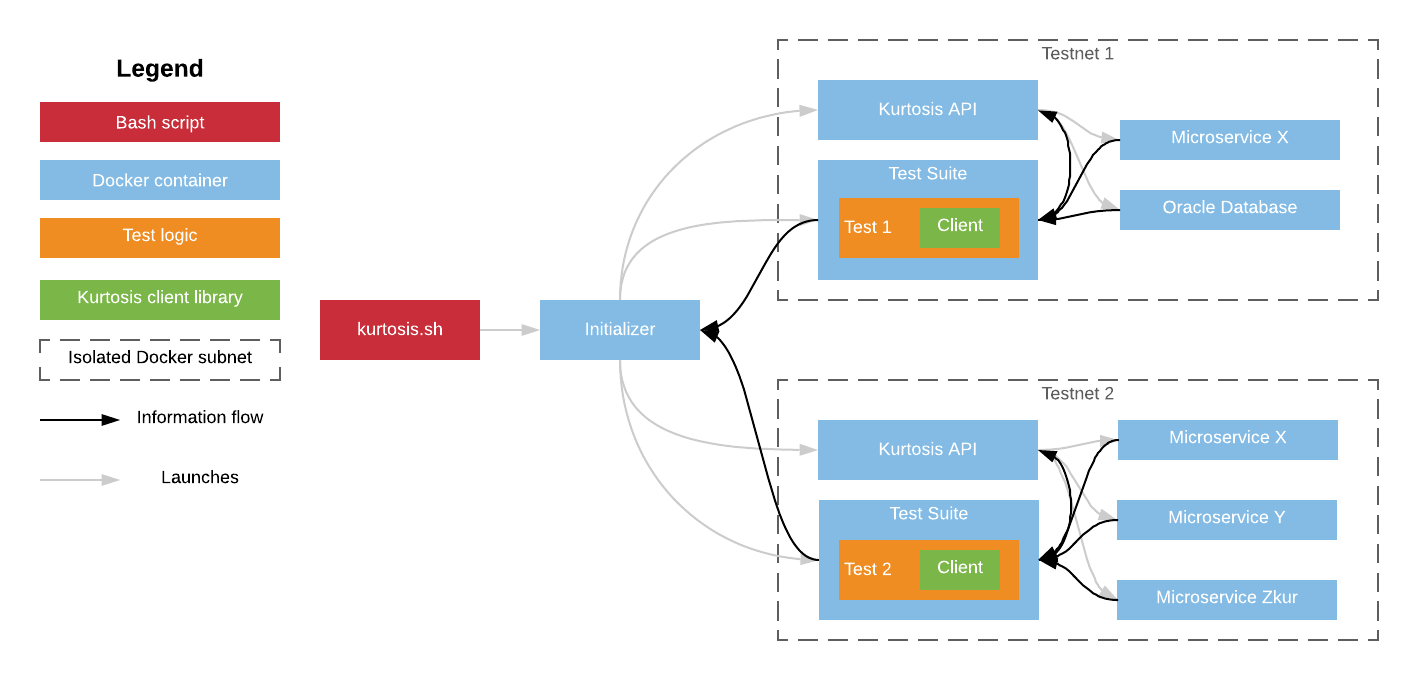
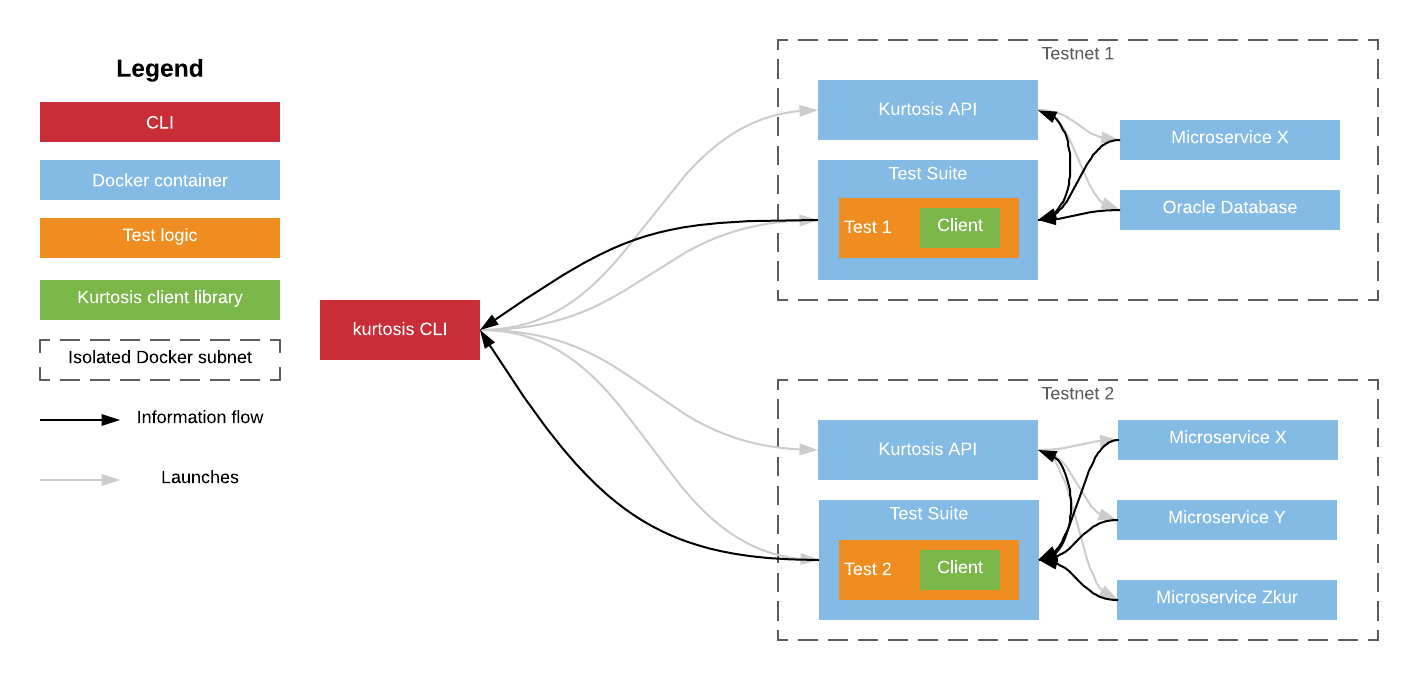
Update docs for the newest way of running Kurtosis via CLI

diff --git a/debugging-failed-tests.md b/debugging-failed-tests.md
@@ -12,37 +12,15 @@ Commmon failure scenarios
 **High-level:** If you're using MacOS, make sure that your Docker engine's `Resources > File Sharing` preferences are set to allow `/var/folders`
 **Details:** The Kurtosis controller is a Docker image that needs to access the Docker engine it's running in to create other Docker images. This is done via creating "sibling" containers, as detailed in the "Solution" section at the bottom of [this blog post](https://jpetazzo.github.io/2015/09/03/do-not-use-docker-in-docker-for-ci/). However, this requires your Docker engine's communication socket to be bind-mounted inside the controller container. Kurtosis will do this for you, but you'll need to give Docker permission for the Docker socket (which lives at `/var/run/docker.sock`) to be bind-mounted inside the controller container.
 
-### Tests failed but no controller logs were printed
-If your tests are failing but you're not getting any controller logs whatsoever, you either have a failure in launching the test's controller container or in the machinery for reporting a controller container's logs back to the Kurtosis initializer.
+### Tests failed but no testsuite logs were printed
+If your tests are failing but you're not getting any testsuite logs whatsoever, you either have a failure in launching the testsuite container or in the machinery for reporting a testsuite container's logs back to Kurtosis
 
 One common failure scenario we've seen with MacOS users is the `/var/folders` not being permitted in the Docker engine preferences. If you're a Mac user, double-check that your Docker engine's `Resources > File Sharing` section permits access to `/var/folders`.
 
-If this still doesn't resolve the issue, you'll want to investigate the logs of your controller container, which you can do [using these instructions](https://docs.docker.com/config/containers/logging/); this should give you more information about why your container is failing.
+If this still doesn't resolve the issue, you'll want to investigate the logs of your testsuite continaer, which you can do [using these instructions](https://docs.docker.com/config/containers/logging/); this should give you more information about why your container is failing.
 
-### Overlapping IP address ranges
-When Docker errors saying that subnet IP address ranges conflict, this usually means that Kurtosis is trying to create the per-test subnets but is colliding with an existing network that was left over from a previous invocation of the test suite. Kurtosis will clean up the Docker networks it creates under normal circumstances, but abnormal exits (e.g. SIGKILL aka `kill -9`) will leave the Docker networks hanging around. To fix this error, remove the offending networks like so:
-
-```
-docker network ls
-docker network rm some_id_1 some_id_2 ...
-```
-
-### Timeout while waiting for a service to start
-Before running a test against a network of services, Kurtosis performs availability checks on all the nodes in the network to ensure they're up. This is to avoid spurious test failures due to the network not being ready. If your test fails with an error like so:
-
-```
-Caused by: Hit timeout (1m30s) while waiting for service to start
- --- at /go/pkg/mod/github.com/kurtosis-tech/kurtosis@v0.0.0-20200722101726-28a51087d1db/commons/services/service_availability_checker.go:56 (ServiceAvailabilityChecker.WaitForStartup) ---
-Caused by: context deadline exceeded
-```
-
-then the timeout Kurtosis is timing out while waiting for a node in a network to start. You should first examine why this might be the case to understand if there's a bug with your service or how you're checking for service availability, and if your service's slowness is expected then you can up the timeout that you define in your availability checker for your service.
-
-### Test execution timeout
-Each test has a timeout by which its execution must complete. A test's execution is specifically for the logic inside each test's `Run` method, and does NOT include the network setup required to even launch the test. A test's execution timeout being hit means that the test logic is not completing within the allowed deadline; the fix is to discover why the test is hitting the timeout (it may be a useful indicator of a problem) and, if no problems are found, increase the execution timeout in the test's `GetExecutionTimeout` method.
-
-### Hard test timeout
-In addition to the test execution timeout and in order to prevent any test from hanging forever, the entire test - including network setup, test execution, and network teardown - are subject to an additional "hard test timeout". This timeout is equal to the test execution timeout (configured in `GetExecutionTimeout`) plus the setup buffer (configured in `GetSetupBuffer`). If your test is hitting the hard test timeout but NOT the execution timeout, it likely means that some element of network setup is taking longer than expected. The initializers and availability checkers for your services should be examined for problems as a first step, and - if no issues are found - then the last fix should be increasing the setup buffer.
+### Test setup & run timeouts
+Each test has timeouts in which its `Test.setup` and `Test.run` functions must complete. One of these timeouts being hit means that the logic is not completing within the allowed deadline; the fix is to discover why the test is hitting the timeout (it may be a useful indicator of a problem) and, if no problems are found, increase the execution timeout in the `Test.configure` method.
 
 ---
 

diff --git a/building-and-running.md b/building-and-running.md
@@ -6,15 +6,17 @@ Every testsuite is simply a package of test code in [an arbitrary language](http
 Testsuites bootstrapped using [the quickstart instructions](https://github.com/kurtosis-tech/kurtosis-onboarding-experience/tree/master#kurtosis-ethereum-quickstart) will come with the Dockerfile and `main` function necessary to package your test code into a Docker image. To build the testsuite Docker image, you'd need to call `docker build` on the Dockerfile to generate a new Docker image every time you make changes to your testsuite. This becomes tedious quickly, so we've automated this with a script that we'll see soon.
 
 ### Feeding a testsuite container to Kurtosis
-Kurtosis is invoked via the `kurtosis.sh` Bash script that's [released with each version of Kurtosis Core after 1.4](https://kurtosis-public-access.s3.us-east-1.amazonaws.com/index.html?prefix=dist/) and created for you in the `.kurtosis` directory of a bootstrapped testsuite. To run your testsuite, you'd need to call `kurtosis.sh` and pass in the name of your testsuite image. As with building, this becomes tedious so we've automated it in a script.
+Kurtosis is invoked via [the Kurtosis CLI][installation]. To run your testsuite, you'd need to call `kurtosis test` and pass in the name of your testsuite image. As with building, this becomes tedious so we've automated it in a script.
 
 ### build-and-run.sh
-Building the testsuite image and running it is such a common task that calling `docker build` and `kurtosis.sh` manually each time becomes frictionful. To ease the pain, we've automated the process with a script called `build-and-run-core.sh`, which is also [released with every Kurtosis Core version](https://kurtosis-public-access.s3.us-east-1.amazonaws.com/index.html?prefix=dist/) and will also be created in the `.kurtosis` directory of newly-bootstrapped repos alongside `kurtosis.sh`. This script takes in an action (e.g. `build`, to just build, or `help`, to display helptext) as well as several other arguments, and will handle the image-building and image-running for you.
+Building the testsuite image and running it is such a common task that calling `docker build` and `kurtosis test` manually each time becomes frictionful. To ease the pain, we've automated the process with a script called `build-and-run-core.sh`, which is also [released with every Kurtosis Core version](https://kurtosis-public-access.s3.us-east-1.amazonaws.com/index.html?prefix=dist/) and will be created in the `.kurtosis` directory of the testsuite repo. This script takes in an action (e.g. `build`, to just build, or `help`, to display helptext) as well as several other arguments, and will handle the image-building and image-running for you.
 
 `build-and-run-core.sh` is versioned with Kurtosis Core and should be upgraded whenever Kurtosis Core is upgraded. This means that any changes you make to it would be overwritten. To fix this issue, every bootstrapped testsuite repo comes with a `build-and-run.sh` wrapper script that calls down to `build-and-run-core.sh`, and is yours to modify as you please.
 
-Because `build-and-run.sh` calls `build-and-run-core.sh` which calls `kurtosis.sh`, and because `kurtosis.sh` has arguments of its own, any additional arguments after the arg telling `build-and-run.sh` what to do will be passed as-is to `kurtosis.sh`. As an example, you can call `build-and-run.sh all --help` to signify that a) `build-and-run.sh` should do both build and run steps and b) you want to see the extra flags that the inner call to `kurtosis.sh` receives. As a second example, `build-and-run.sh run --parallelism 2` would execute only the run step (no build) and call `kurtosis.sh` with parallelism set to 2.
+Because `build-and-run.sh` calls `build-and-run-core.sh` which calls the Kurtosis CLI, and because the Kurtosis CLI has arguments of its own, any additional arguments after the arg telling `build-and-run.sh` what to do will be passed as-is to the CLI. As an example, you can call `build-and-run.sh all --help` to signify that a) `build-and-run.sh` should do both build and run steps and b) you want to see the extra flags that the Kurtosis CLI receives. As a second example, `build-and-run.sh run --parallelism 2` would execute only the run step (no build) and call `kurtosis test` with parallelism set to 2.
 
 ---
 
 [Back to index](https://docs.kurtosistech.com)
+
+[installation]: ./installation.md

diff --git a/architecture.md b/architecture.md
@@ -33,8 +33,7 @@ This architecture has the following components:
 
 * **Testnet:** The network of services being tested (one per test)
 * **Service:** A Dockerized service forming part of a testnet
-* **Initializer:** The Docker container that coordinates execution of the testsuite
-* **kurtosis.sh:** The Bash script that launches the initializer container, and the entrypoint for running Kurtosis
+* **Kurtosis CLI:** The CLI that coordinates the execution of a testsuite, and the entrypoint for running Kurtosis
 * **Kurtosis API:** The Docker sidecar container (one per test) that handles initializing, manipulating, and tearing down testnets
 * **Testsuite:** The Docker container (one per test) that holds the user's custom logic for starting the custom services forming the networks being tested, as well as the logic for the tests to run
 * **Kurtosis Client:** A library in the user's language of choice that abstracts away communication with the Kurtosis API for testnet initialization, manipulation, and teardown
@@ -42,17 +41,17 @@ This architecture has the following components:
 The test phases proceed in the following order for each test:
 
 1. **Setup:**
-    1. The initializer creates a new Docker subnet to contain the Kurtosis API container, testsuite container, and testnet services
+    1. The CLI creates a new Docker subnet to contain the Kurtosis API container, testsuite container, and testnet services
     1. The API container and testsuite containers are launched
     1. As part of launch, the Kurtosis client library instructs the API container what the testnet looks like
     1. The API container instantiates the testnet as instructed
 1. **Perturbation:** The test, running inside the testsuite container, makes calls against the network
 1. **Validation:** The test asserts the expected responses
 1. **Teardown:**
-    1. The test completes and reports its status back to the initializer
+    1. The test completes and reports its status back to the CLI
     1. The API container stops the testnet containers
     1. The API container and testsuite container exit
-    1. The initializer tears down the Docker subnet created for the test
+    1. The CLI tears down the Docker subnet created for the test
 
 Key features:
 

diff --git a/lambdas.md b/lambdas.md
@@ -4,17 +4,22 @@ Kurtosis Lambdas
 You might want to provide your testnet definition logic to a wider audience (e.g. your users), or you might want to consume someone else's testnet definition logic. Kurtosis' solution to this are "Lambdas", which are packages of code that execute against the Kurtosis testnet. You can think of a Lambda as a language-agnostic library that executes in the Kurtosis environment. 
 
 ### Uses
-The current Lambdas we know about:
-
-* [Ethereum Lambda](https://github.com/kurtosis-tech/ethereum-kurtosis-lambda): Starts an Ethereum network in Kurtosis
-* [NEAR Lambda](https://github.com/kurtosis-tech/near-kurtosis-lambda): Starts a network of NEAR blockchain nodes in Kurtosis
-* [Datastore Army Lambda](https://github.com/kurtosis-tech/datastore-army-lambda): Starts multiple [datastore services](https://github.com/kurtosis-tech/example-microservices); used for demonstration purposes
-
 Some hypothetical Lambdas that could be built:
 
 * Occasionally kill services in the network (like Netflix' [Chaos Monkey](https://netflix.github.io/chaosmonkey/))
 * Repartition the network periodically
 * Mutate the state of the network
+
+### Running Lambdas
+The easiest way to run a Lambda is in the [sandbox][sandbox].
+
+### Known Lambdas
+The current Lambdas we know about:
+
+* [Ethereum Lambda](https://github.com/kurtosis-tech/ethereum-kurtosis-lambda): Starts an Ethereum network in Kurtosis
+* [NEAR Lambda](https://github.com/kurtosis-tech/near-kurtosis-lambda): Starts a NEAR blockchain and accompanying wallet, explorer, etc. in Kurtosis
+* [Datastore Army Lambda](https://github.com/kurtosis-tech/datastore-army-lambda): Starts multiple [datastore services](https://github.com/kurtosis-tech/example-microservices); used for demonstration purposes
+
 
 ### Technical Details
 Under the covers, Lambdas are:
@@ -32,3 +37,5 @@ The API that a Lambda must implement is defined in [the Lambda API Lib](https://
 ---
 
 [Back to index](https://docs.kurtosistech.com)
+
+[sandbox]: ./sandbox.md

diff --git a/running-in-ci.md b/running-in-ci.md
@@ -2,6 +2,10 @@ Running in CI
 =============
 Running Kurtosis on your local machine is nice, but the real power of the platform comes when it's executed as part of CI. This guide will walk you through setting up Kurtosis in your CI environment.
 
+Installing The CLI
+-------------------
+You'll need the Kurtosis CLI inside your CI environment. This can be accomplished by following [the installation instructions][installation] for whichever package manager your CI container uses.
+
 Machine-to-Machine Auth
 -----------------------
 While it's fine to prompt a user for their username and password when Kurtosis is run on the local machine, this method is insecure when executing Kurtosis on CI. Fortunately, our auth system provides [a system for handling this called "machine-to-machine auth"](https://auth0.com/docs/flows/client-credentials-flow). In the machine-to-machine flow, a client ID and a client secret are stored within the CI environment's secrets and passed in to every CI job. Kurtosis uses these credentials to retrieve a token from the auth provider, which allows Kurtosis execution to proceed.
@@ -35,3 +39,5 @@ This allows you to require untrusted code to pass a review before it runs (there
 ---
 
 [Back to index](https://docs.kurtosistech.com)
+
+[installation]: ./installation.md

diff --git a/sandbox.md b/sandbox.md
@@ -2,31 +2,7 @@ Kurtosis Sandbox
 ================
 Often, Kurtosis is used for its testing ability: run a testsuite, where each test spins up a test network that the test logic runs against. However, it can sometimes be valuable to spin up a test network for freeform manipulation without any test logic. This is the Kurtosis sandbox: a testnet that can be freeform manipulated with a Javascript REPL with [the same tools for interacting with the Kurtosis engine][lib-documentation].
 
-To start a Kurtosis sandbox, first install the Kurtosis CLI:
-
-Homebrew:
-```
-brew install kurtosis-tech/tap/kurtosis
-```
-
-apt:
-```
-echo "deb [trusted=yes] https://1rRcWo-cTcNiKak7X5tkD7slaIg4GDXrdU@apt.fury.io/kurtosis-tech/ /" | sudo tee /etc/apt/sources.list.d/kurtosis.list
-sudo apt update
-sudo apt install kurtosis
-```
-
-yum:
-```
-echo '[kurtosis]
-name=Kurtosis
-baseurl=https://1rRcWo-cTcNiKak7X5tkD7slaIg4GDXrdU@yum.fury.io/kurtosis-tech/
-enabled=1
-gpgcheck=0' | sudo tee /etc/yum.repos.d/kurtosis.repo
-sudo yum install kurtosis
-```
-
-Next, run:
+To start a Kurtosis sandbox, [install the Kurtosis CLI](./installation.md) and run:
 
 ```
 kurtosis sandbox

diff --git a/installation.md b/installation.md
@@ -1,0 +1,34 @@
+Installation
+============
+Interacting with Kurtosis is done via a CLI. The following methods are currently supported (code snippets can be copied by hovering and clicking the clipboard in the top-right):
+
+### Homebrew
+```
+brew install kurtosis-tech/tap/kurtosis
+```
+
+### apt
+```
+echo "deb [trusted=yes] https://1rRcWo-cTcNiKak7X5tkD7slaIg4GDXrdU@apt.fury.io/kurtosis-tech/ /" | sudo tee /etc/apt/sources.list.d/kurtosis.list
+sudo apt update
+sudo apt install kurtosis
+```
+
+### yum
+```
+echo '[kurtosis]
+name=Kurtosis
+baseurl=https://1rRcWo-cTcNiKak7X5tkD7slaIg4GDXrdU@yum.fury.io/kurtosis-tech/
+enabled=1
+gpgcheck=0' | sudo tee /etc/yum.repos.d/kurtosis.repo
+sudo yum install kurtosis
+```
+
+Once the CLI is installed, [the quickstart is a great place to get started][quickstart].
+
+---
+
+[Back to index](https://docs.kurtosistech.com)
+
+[lib-documentation]: ./kurtosis-client/lib-documentation
+[quickstart]: https://github.com/kurtosis-tech/kurtosis-onboarding-experience/tree/master#kurtosis-ethereum-quickstart

diff --git a/index.md b/index.md
@@ -9,6 +9,7 @@ For those who like to jump in and see things running, head over to [the quicksta
 For Q&A, head over to the [Kurtosis Discord](https://discord.gg/6Jjp9c89z9) server.
 
 * [Quickstart][quickstart]
+* [Installation](./installation.md)
 * [Debugging common failure scenarios](./debugging-failed-tests.md)
 * [Testsuite Customization](./testsuite-customization.md)
 * [Architecture][architecture]
